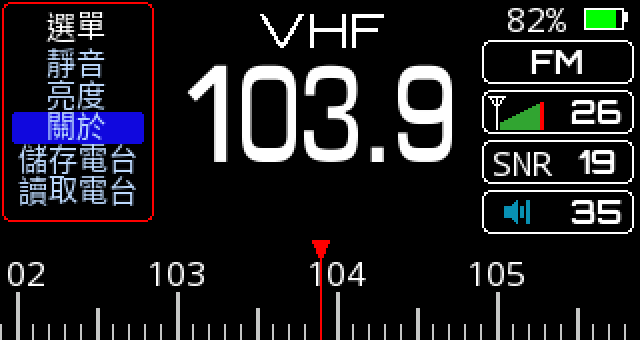
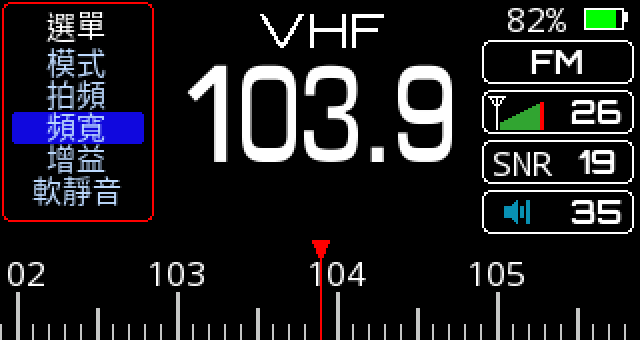
Add radio cover and real FM photograph to the README

Changed region(s): [[0.0312, 0.1176, 0.2188, 0.6176]]

diff --git a/tools/make_ui_preview.py b/tools/make_ui_preview.py
@@ -94,7 +94,7 @@ def tuning_screen(fonts, menu=None):
         pen.rounded_rectangle((1, 1, 76, 110), radius=4, outline="red")
         zh.draw(screen, "選單", 38, 14)
         pen.rounded_rectangle((6, 56, 71, 71), radius=2, fill=rgb565(0x105B))
-        selected = menu.index("關於")
+        selected = menu.index("頻寬")
         for offset in range(-2, 3):
             zh.draw(screen, menu[(selected + offset) % len(menu)], 38, 64 + 16 * offset, rgb565(0xBEDF))
     else:
@@ -143,15 +143,7 @@ def main():
     gfx = ROOT / "vendor/TFT_eSPI/Fonts/Custom/Orbitron_Light_24.h"
     fonts.append(BitmapFont.from_gfx(gfx, "Orbitron_Light_24"))
 
-    about = Image.new("RGB", (320, 170))
-    section = source.split("void doabout(", 1)[1].split("spr.unloadFont();", 1)[0]
-    lines = re.findall(r'spr\.drawString\("([^"]+)",\s*(\d+),\s*(\d+)\)', section)
-    assert len(lines) == 4, "Check the About drawing code"
-    for label, x, y in lines:
-        zh.draw(about, label, int(x), int(y), left=True)
-    zh.draw(about, "1.7100000", 100, 130, left=True, numeric=True)
-
-    for name, screen in [("fm", tuning_screen(fonts)), ("menu", tuning_screen(fonts, menu)), ("about", about)]:
+    for name, screen in [("fm", tuning_screen(fonts)), ("menu", tuning_screen(fonts, menu))]:
         screen.resize((640, 340), Image.Resampling.NEAREST).save(ASSETS / f"ui-{name}.png")
 
 

diff --git a/README.md b/README.md
@@ -1,18 +1,24 @@
 # Si4732 收音機繁體中文韌體
 
+![Si4732 繁體中文韌體 0.2.1 封面，黑色收音機上顯示 FM 97.1 MHz。](assets/project-cover.jpg)
+
 為 ESP32-S3 與 Si4732-A10 多波段收音機製作的繁體中文介面。0.2.1 提供 14 項旋鈕選單、可調背光及電台記憶，並修正舊設定損壞時反覆重新開機的問題。
 
 **[下載 v0.2.1 韌體與 SHA-256 校驗檔](https://github.com/MAXXTANG/si4732-zh-tw/releases/tag/v0.2.1)**
 
+## 實機照片
+
+<img src="assets/receiver-fm-97-1.jpg" width="680" alt="實拍的 Si4732 收音機調至 FM 97.1 MHz，銀色旋鈕在螢幕右側。">
+
+實拍時收音機調在 **FM 97.1 MHz**。螢幕左側可見步進、頻寬、衰減與搜台，底部指針標出目前頻率。頁首封面依實機照片以 AI 輔助製作。
+
 ## 介面與操作
 
-轉動旋鈕可調整頻率。快速連按兩下開啟選單，轉動選取項目，再按一下進入。三張示意圖依 320 × 170 橫向版面重繪，使用韌體內的字型和圖示。主畫面以 FM 103.9 MHz 為例，電量與訊號欄位使用示範數值。
+轉動旋鈕可調整頻率。快速連按兩下開啟選單，轉動選取項目，再按一下進入。以下兩張示意圖使用韌體內的字型與圖示，以 FM 103.9 MHz 為例呈現 320 × 170 的螢幕版面。
 
-![FM 主畫面。中央為 103.9 MHz，兩側列出接收設定與訊號，下方為調諧刻度。](assets/ui-fm.png)
-
-| 旋鈕選單 | 關於 |
+| FM 調諧主畫面 | 旋鈕選單 |
 | --- | --- |
-| ![旋鈕選單，反白停在「關於」。](assets/ui-menu.png) | ![關於頁顯示原始硬體署名、繁體中文漢化與改進：＠maxxtang(Github)，以及繁體中文漢化：0.2.1。](assets/ui-about.png) |
+| ![頻率位於中央，接收設定與訊號分列兩側，底部為調諧刻度。](assets/ui-fm.png) | ![旋鈕選單在畫面左側展開，反白停在「頻寬」。](assets/ui-menu.png) |
 
 選單可調整音量、步進、模式、拍頻、頻寬、增益、軟靜音與波段，也可儲存或讀取電台。「自動熄屏」可選常亮或 1 至 99 秒。背光熄滅後，轉動或按下旋鈕即可喚醒。
 
@@ -78,7 +84,7 @@ bash build.sh
 | --- | --- |
 | [firmware/Si4732Traditional](firmware/Si4732Traditional) | Arduino sketch、調諧與旋鈕邏輯、圖示及編譯好的中文字型 |
 | [vendor](vendor) | 固定版本的 TFT_eSPI 與 PU2CLR SI4735 |
-| [assets](assets) | 三張介面示意圖、VLW 字型及字形覆蓋檢查 |
+| [assets](assets) | 專案封面、實機照片、兩張介面示意圖、VLW 字型及字形覆蓋檢查 |
 | [diagnostics/Si4732DisplayTest](diagnostics/Si4732DisplayTest) | 獨立顯示測試 sketch，開啟背光並繪製彩條與文字 |
 | [tools](tools) | 建置、字型、翻譯、示意圖與發佈封裝工具 |
 | [validation](validation) | 分割表、實機驗證摘要、發行映像比對及可用模擬設定重跑的 C++ 回歸測試 |
